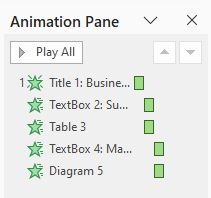
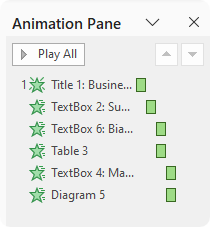
M

diff --git a/materi-powerpoint.html b/materi-powerpoint.html
@@ -3628,12 +3628,92 @@
                                 </div><!-- /row -->
                                 <hr>
                               </li>
+
                               <li>
                                 <strong>Slide 5 — Business Model</strong>
+
                                 <div class="row">
                                   <div class="col-md-6">
                                     <ul class="list-unstyled">
                                       <li><strong>Layout:</strong> <strong>Title Only</strong></li>
+                                      <li>Judul : <strong>BUSINESS MODEL</strong></li>
+                                      <li>
+                                        <strong>Isi :</strong> <br>
+                                        <strong>Sumber Pendapatan</strong>
+                                        <ul class="mb-2">
+                                          <li>Margin penjualan produk</li>
+                                          <li>Biaya pengiriman</li>
+                                          <li>Membership Premium</li>
+                                          <li>Iklan produk UMKM</li>
+                                        </ul>
+                                      </li>
+                                      <li><strong>Biaya Operasional</strong>
+                                        <ul class="mb-2">
+                                          <li>Biaya tenaga kerja</li>
+                                          <li>Biaya alat dan mesin</li>
+                                          <li>Biaya sewa tempat</li>
+                                          <li>Biaya listrik dan air</li>
+                                        </ul>
+                                      </li>
+                                    </ul>
+                                  </div>
+                                  <div class="col-md-6">
+                                    <div class="my-3">
+                                      <img src="assets/img/Business-Pitch-Deck-7-Slide/Slide5.PNG" alt=""
+                                        class="img-fluid shadow rounded">
+                                    </div>
+                                  </div>
+                                </div><!-- /row -->
+
+                                <div class="row">
+                                  <div class="col-md-6">
+                                    <ul>
+                                      <li><strong>Insert → <strong>Table</strong></strong>
+                                        <div class="my-3">
+                                          <img src="assets/img/insert-table.png" alt=""
+                                            class="img-fluid shadow rounded">
+                                        </div>
+                                      </li>
+
+                                    </ul>
+                                  </div>
+                                  <div class="col-md-6">
+                                    <ul>
+                                      <li><strong>Insert → <strong>Text Box</strong></strong> : Margin rata-rata 30%
+                                      </li>
+                                      <li><strong>Insert</strong> → <strong>Shape</strong>:
+                                        <ul>
+                                          <li><strong>Rectangle: Rounded Corners</strong></li>
+                                          <li><strong>Arrow: Right</strong></li>
+                                        </ul>
+                                      </li>
+                                    </ul>
+                                    <strong>Animation</strong>:
+                                    <ul>
+                                      <li>Judul: <strong>Fade</strong></li>
+                                      <li>TextBox: <strong>Wipe</strong>, <i class="bi bi-clock-history"></i> Start
+                                        After Previous</li>
+                                      <li>TextBox: <strong>Wipe</strong>, <i class="bi bi-clock-history"></i> Start
+                                        After Previous</li>
+                                      <li>Table: <strong>Wipe</strong>, <i class="bi bi-clock-history"></i> Start
+                                        With Previous</li>
+                                      <li>TextBox: <strong>Wipe</strong>, <i class="bi bi-clock-history"></i> Start
+                                        After Previous, Direction: From
+                                        Top</li>
+                                      <li>Diagram: <strong>Wipe</strong>, <i class="bi bi-clock-history"></i> Start
+                                        With Previous, Direction: From
+                                        Left</li>
+                                    </ul>
+                                    <div class="my-3">
+                                      <img src="assets/img/Animation.png" alt="" class="img-fluid shadow rounded">
+                                    </div>
+                                  </div>
+                                </div><!-- /row -->
+
+                                <div class="row">
+                                  <div class="col-md-6">
+                                    <ul class="list-unstyled">
+                                      <!-- <li><strong>Layout:</strong> <strong>Title Only</strong></li>
                                       <li>Judul : <strong>BUSINESS MODEL</strong></li>
                                       <li>
                                         <strong>Isi :</strong>
@@ -3651,8 +3731,8 @@
                                           <li>Biaya sewa tempat</li>
                                           <li>Biaya listrik dan air</li>
                                         </ul>
-                                      </li>
-                                      <li><strong>Insert → <strong>Table</strong></strong>
+                                      </li> -->
+                                      <!-- <li><strong>Insert → <strong>Table</strong></strong>
                                         <div class="my-3">
                                           <img src="assets/img/insert-table.png" alt=""
                                             class="img-fluid shadow rounded">
@@ -3665,8 +3745,8 @@
                                           <li><strong>Rectangle: Rounded Corners</strong></li>
                                           <li><strong>Arrow: Right</strong></li>
                                         </ul>
-                                      </li>
-                                      <li><strong>Animation</strong>:
+                                      </li> -->
+                                      <!-- <li><strong>Animation</strong>:
                                         <ul>
                                           <li>Judul: <strong>Fade</strong></li>
                                           <li>TextBox: <strong>Wipe</strong>, <i class="bi bi-clock-history"></i> Start
@@ -3683,12 +3763,11 @@
                                         <div class="my-3">
                                           <img src="assets/img/Animation.png" alt="" class="img-fluid shadow rounded">
                                         </div>
-                                      </li>
+                                      </li> -->
                                     </ul>
                                   </div>
                                   <div class="col-md-6">
-                                    <img src="assets/img/Business-Pitch-Deck-7-Slide/Slide5.PNG" alt=""
-                                      class="img-fluid shadow rounded">
+
                                   </div>
                                 </div>
                                 <hr>
